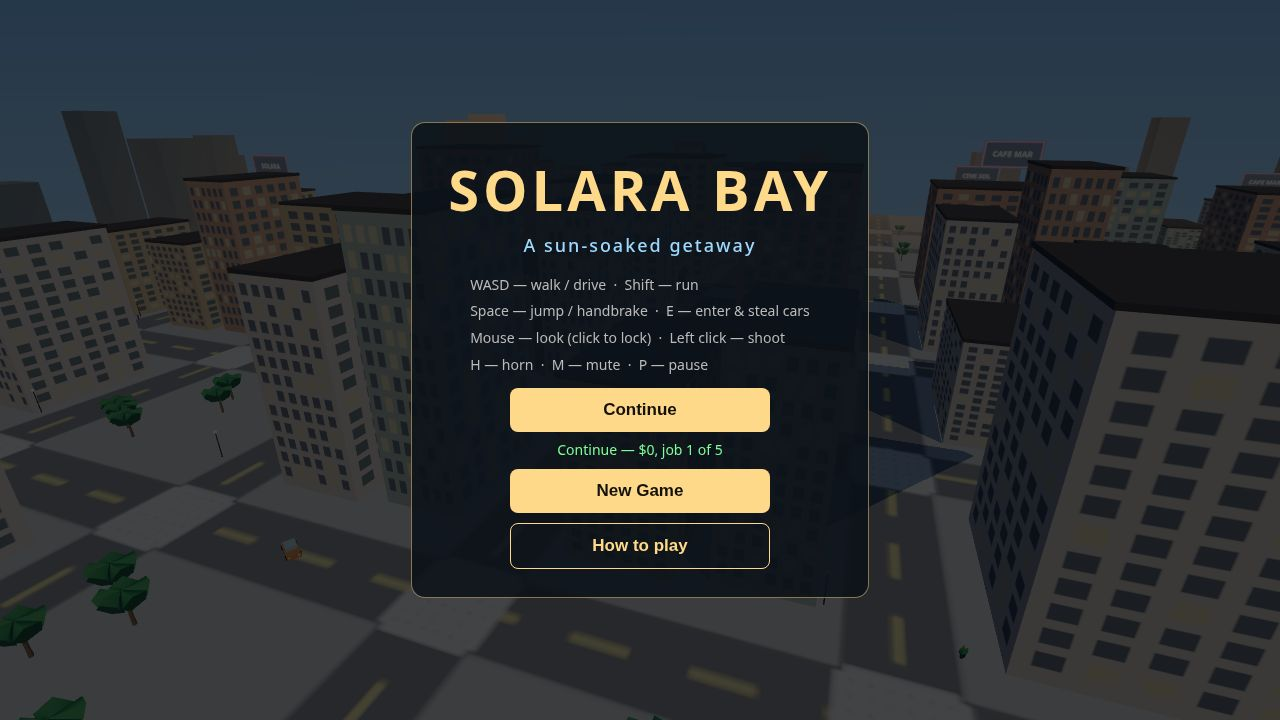
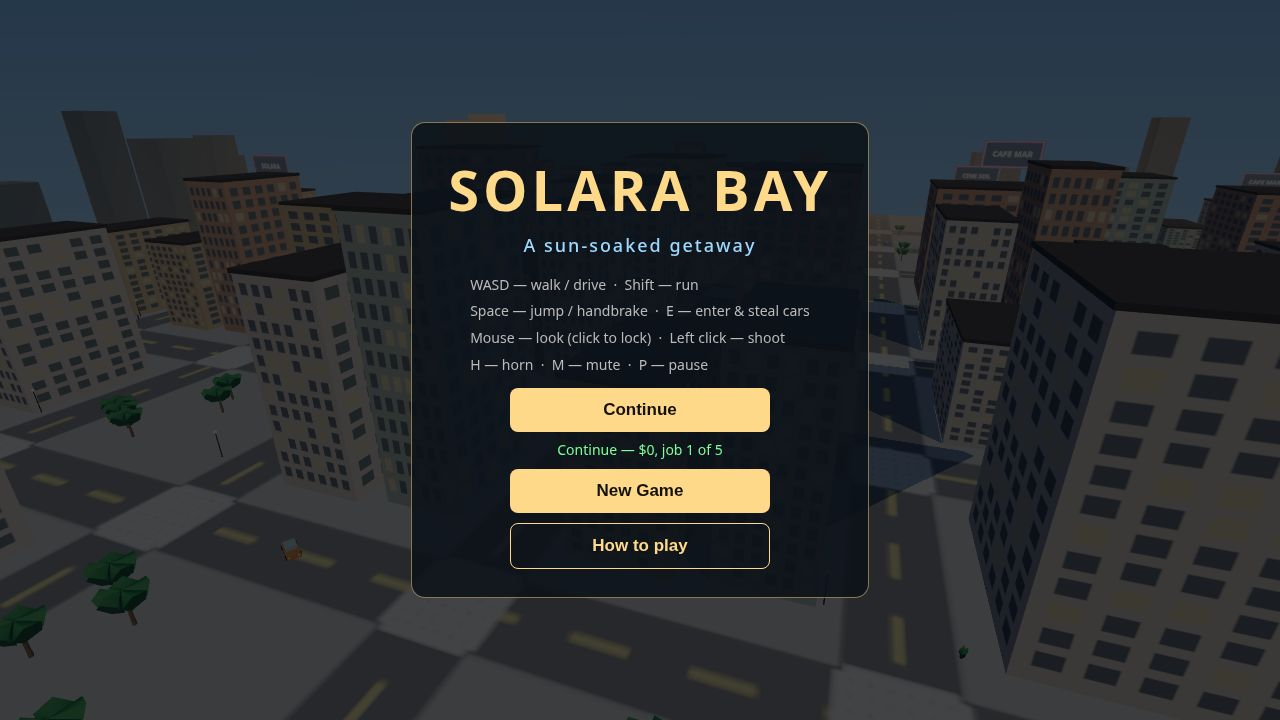
Solara Bay v1.1: re-type the full game in a fresh recorded session
Every game file rewritten from scratch under the new recording so the
transcripts cover each line of code; gameplay identical to v1.0. Only
change: GAME_VERSION 1.1 in game/src/config.js. Screenshots re-captured
from the re-typed code (?shot=start|drive|chase|mission, seed=1).

diff --git a/game/src/config.js b/game/src/config.js
@@ -1,5 +1,8 @@
 // Solara Bay: a sun-soaked coastal city, all original. Every name, place and
 // character below is invented for this game; nothing comes from Rockstar or GTA.
+// v1.1 — re-typed from scratch in a fresh recorded session for the gta6-01
+// submission. Gameplay is identical to v1.0; only this version marker changed.
+export const GAME_VERSION = '1.1';
 export const STEP = 1 / 60;
 export const SAVE_KEY = 'solara-bay-save-v1';
 export const GAME_TITLE = 'SOLARA BAY';
